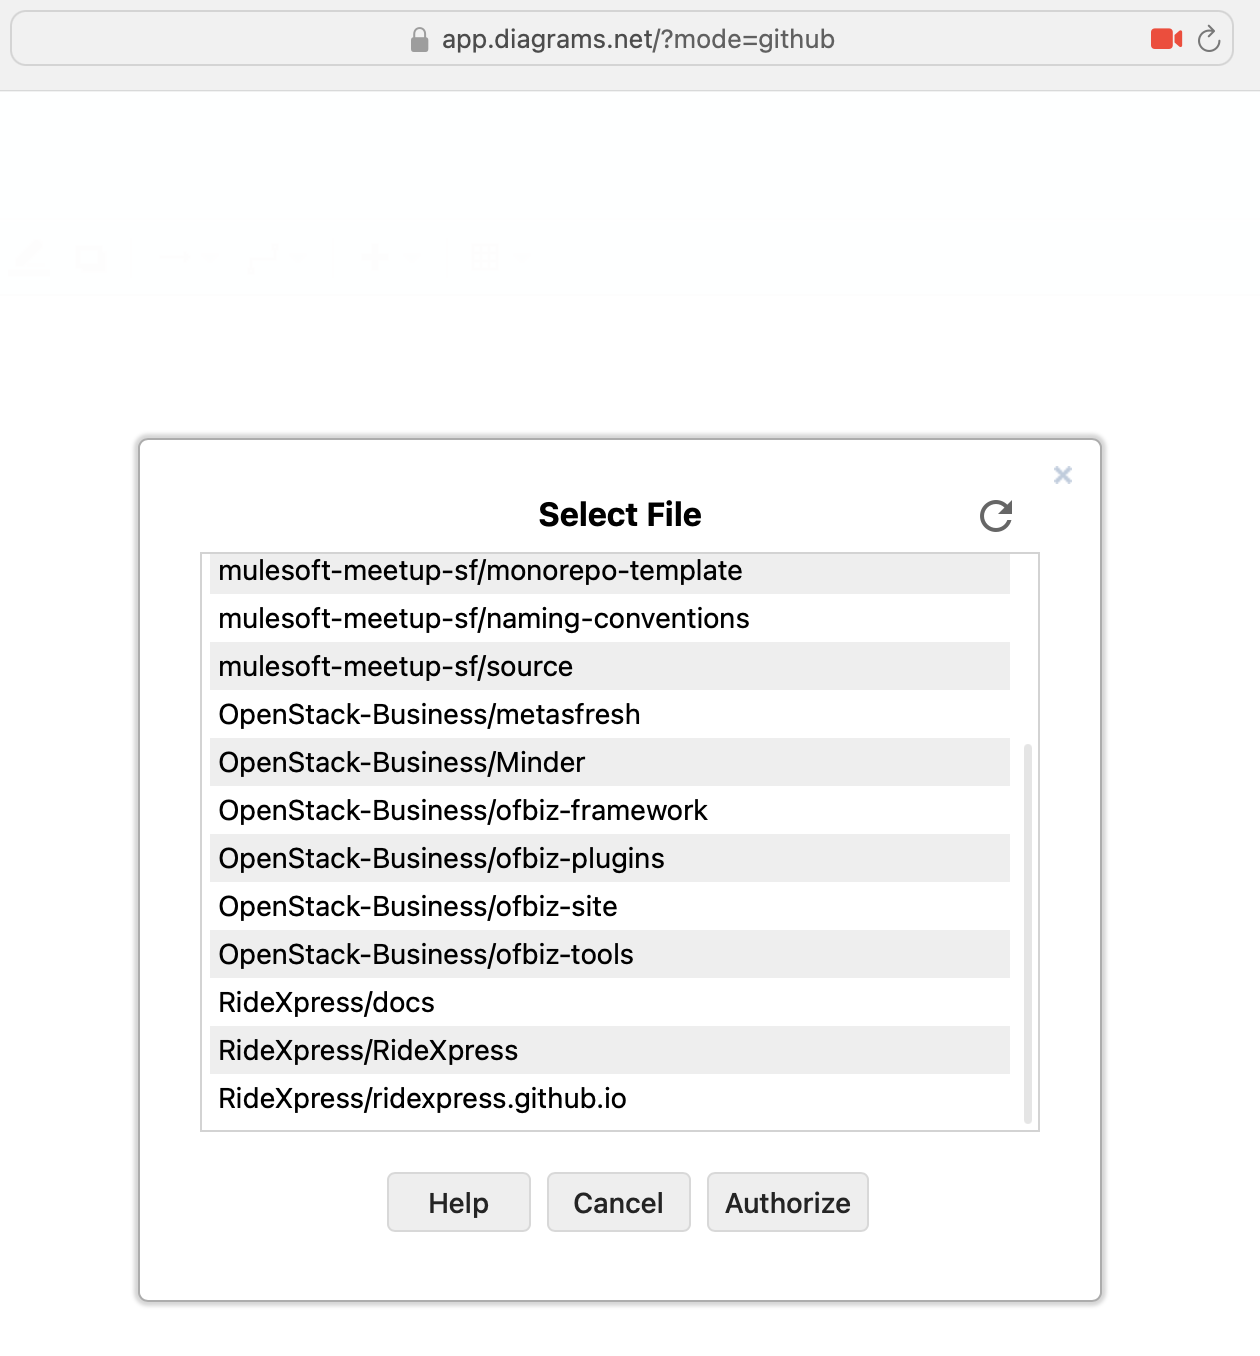
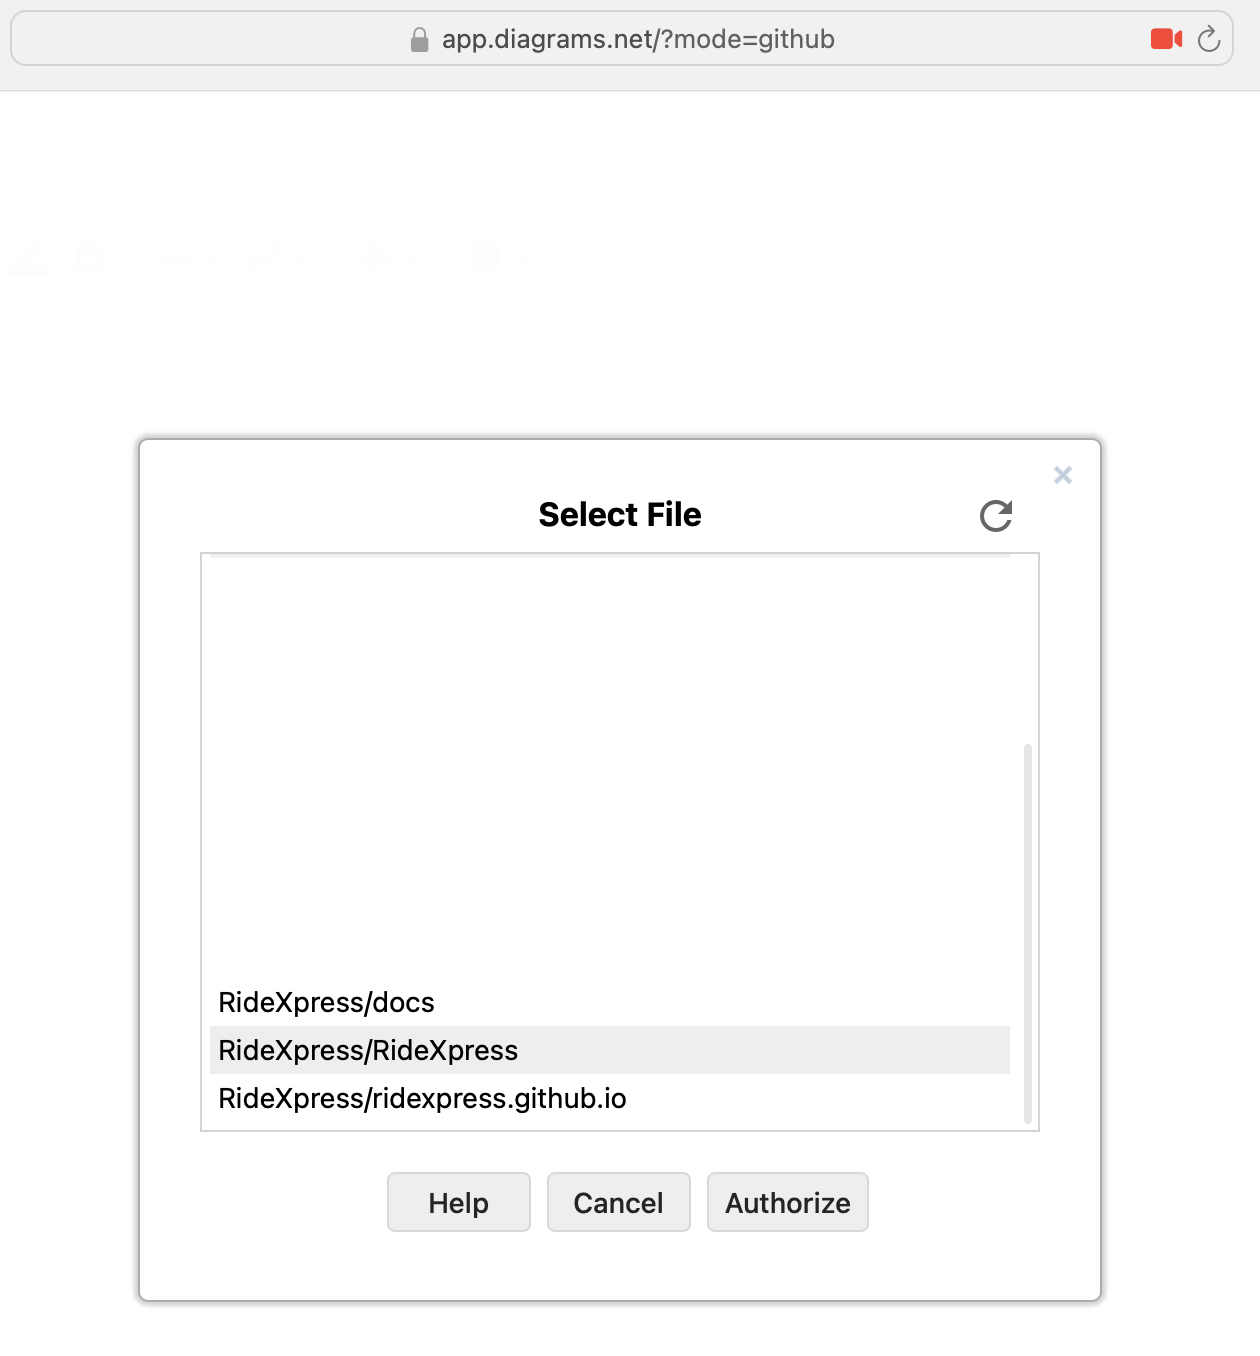
Updating image and adding more images to select branch

Changed region(s): [[0.1857, 0.4027, 0.5881, 0.7124]]

diff --git a/architecture/diagrams/README.md b/architecture/diagrams/README.md
@@ -1,0 +1,13 @@
+# How to open drawio files
+
+1. Open https://draw.io?mode=github
+![https://draw.io?mode=github](images/drawio-github-mode.png?raw=true "draw.io")
+
+2. Click on Open Existing Diagram
+![https://draw.io?mode=github](images/drawio-select-repository.png?raw=true "draw.io))
+
+3. From the dialog select the branch
+![https://draw.io](images/drawio-select-branch.png?raw=true "draw.io")
+
+4. Select File
+![Click on File](images/drawio-select-file.png?raw=true "draw.io")
